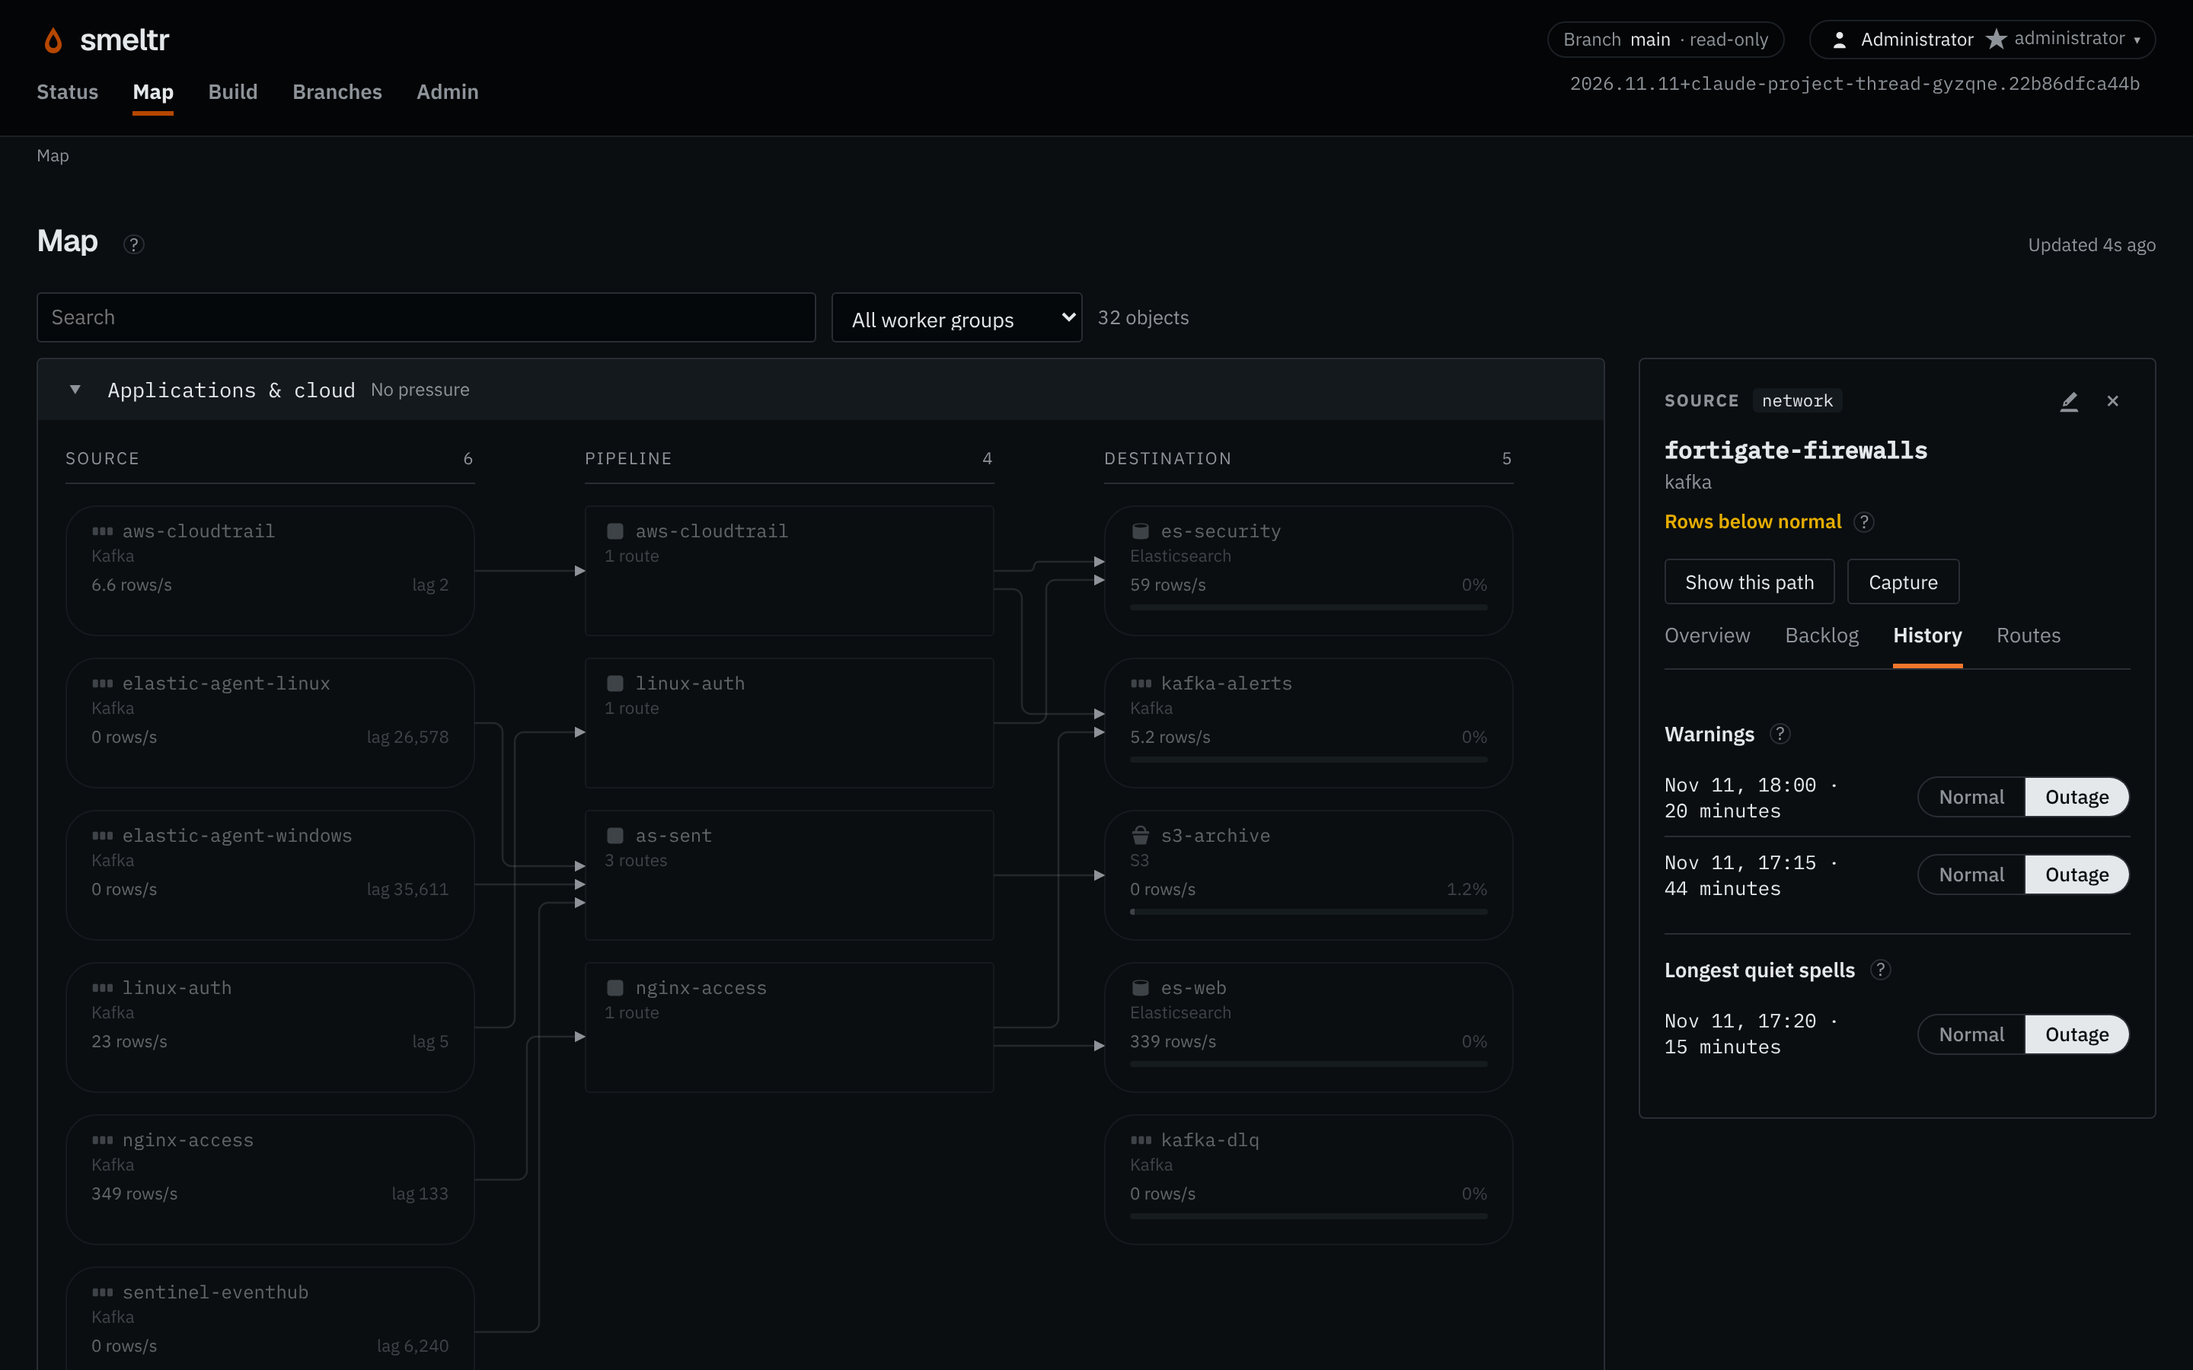
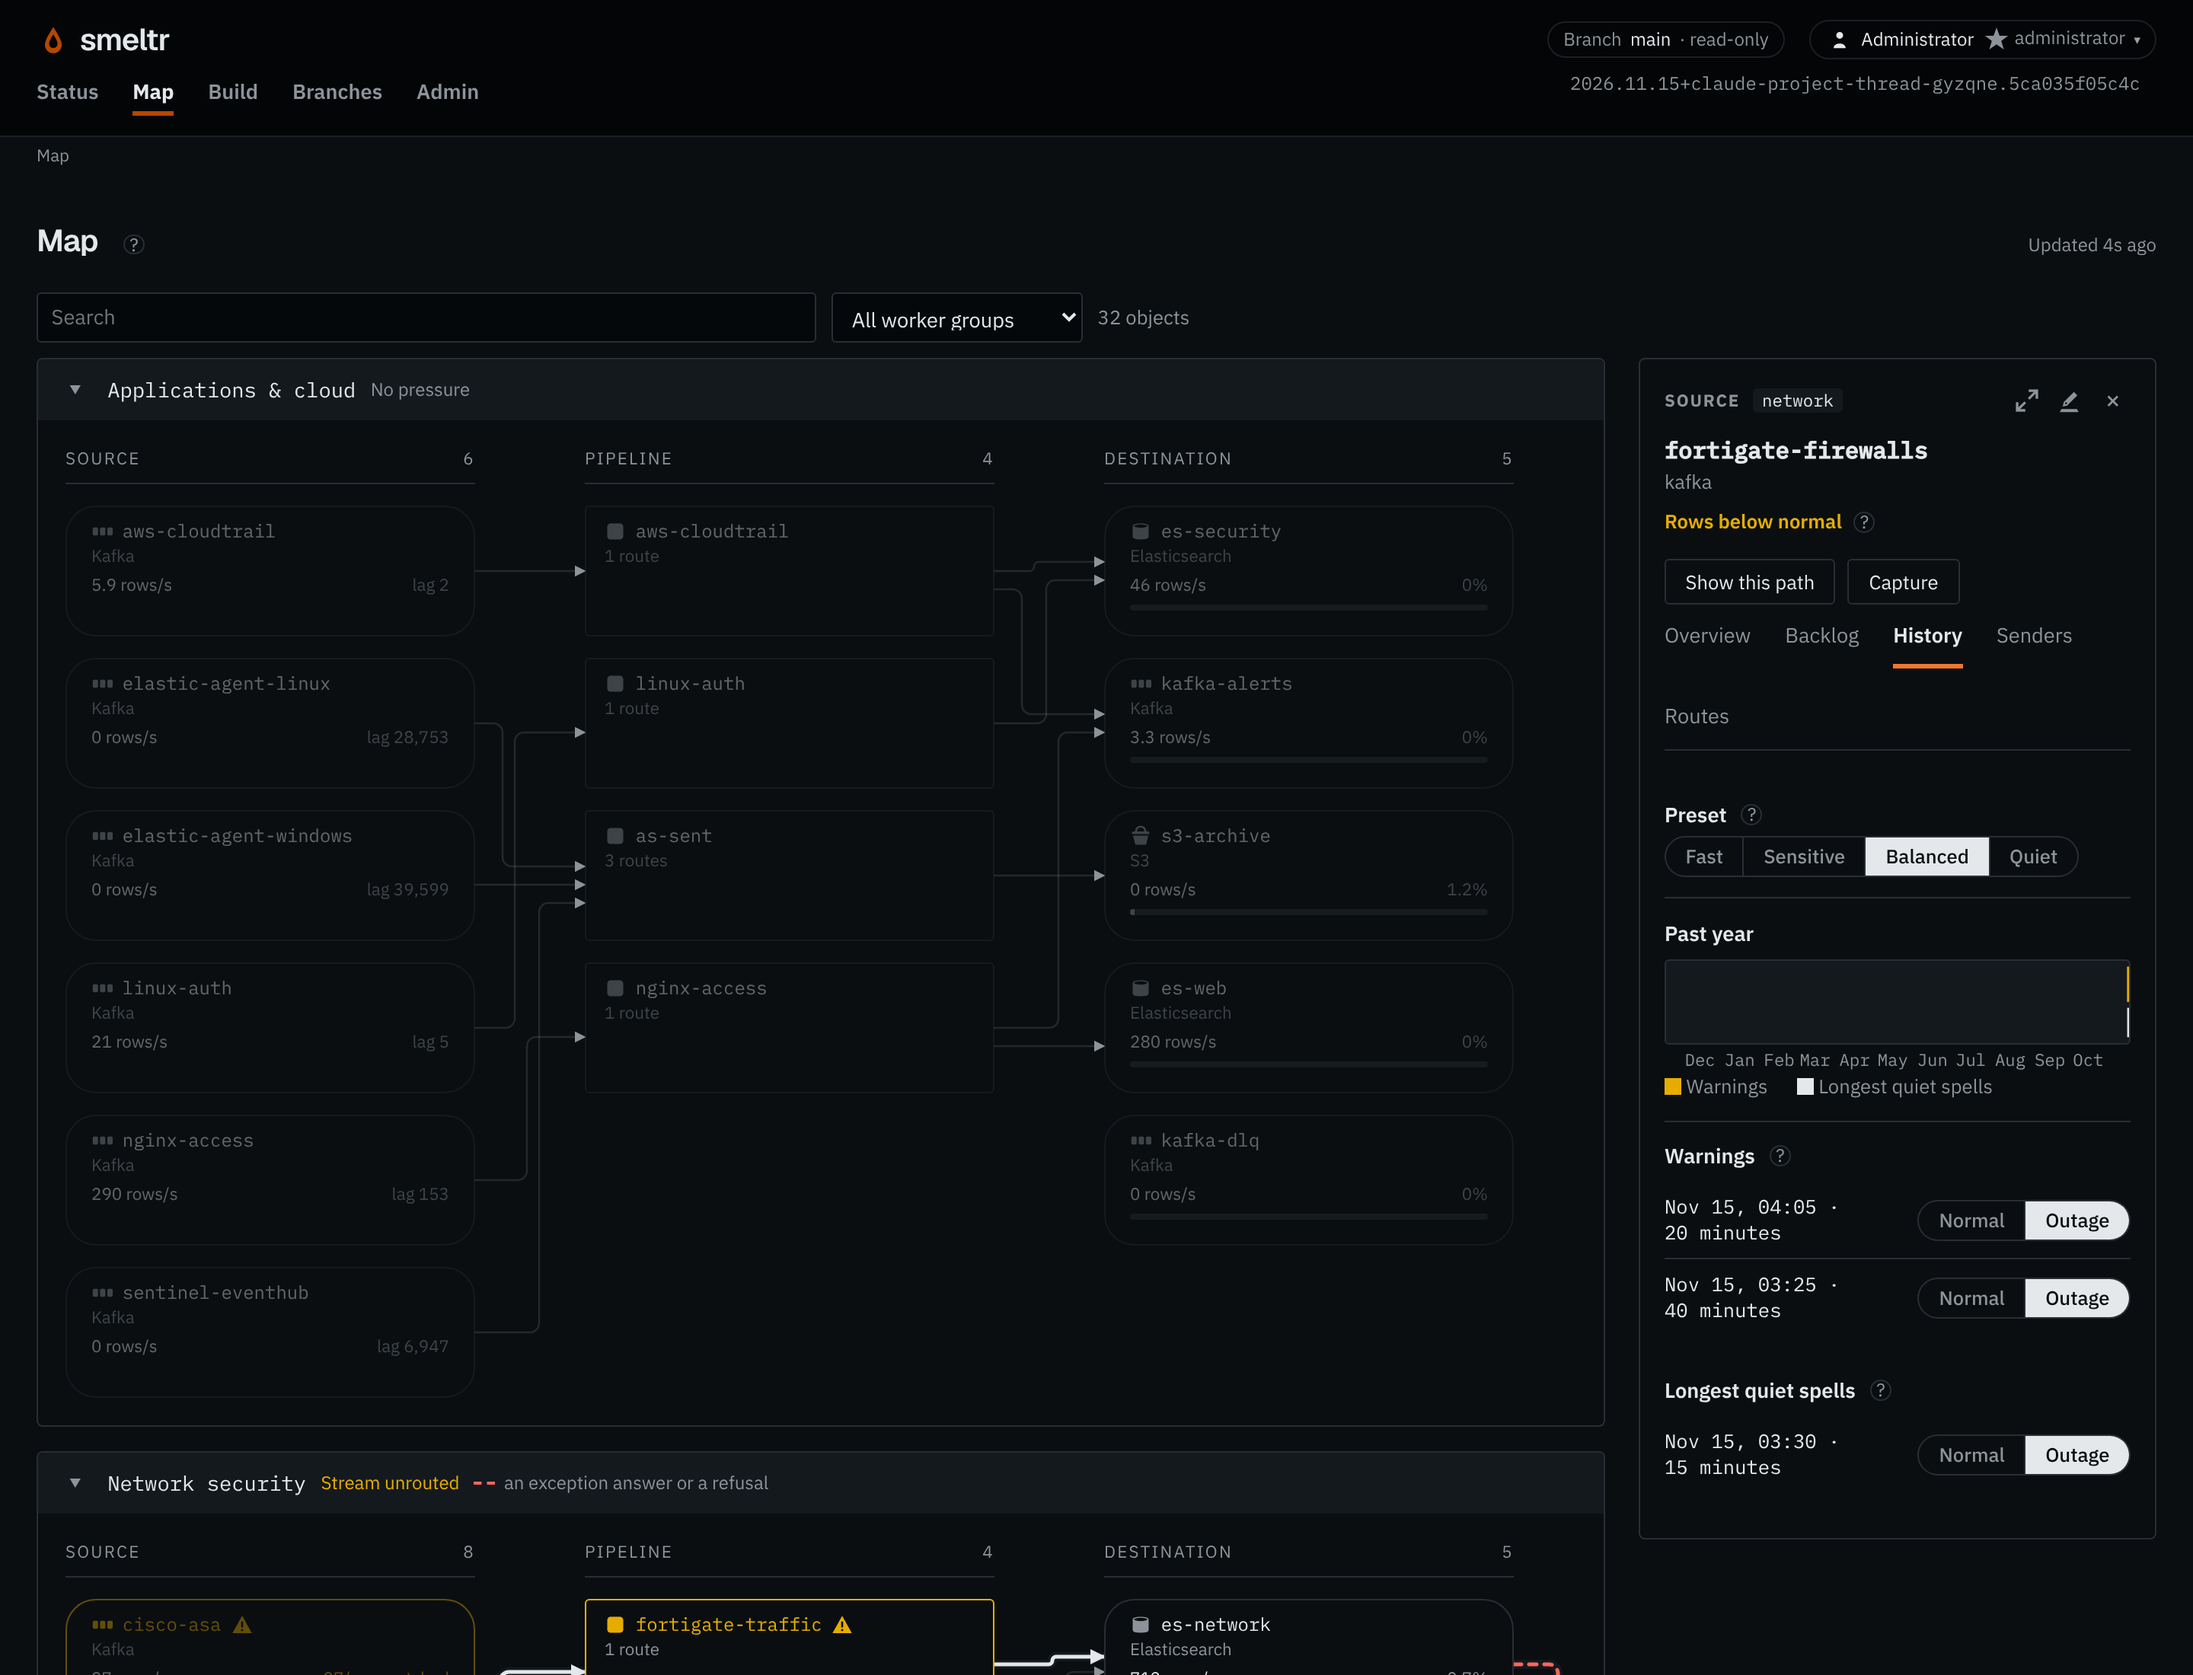
Retake the Feed health page's outage shots since presets
The source panel grew with presets (the History tab's preset picker, the
Overview tiles), so the Map shots of the outage are taken 1100 px tall and
the page's crops follow the panel. The alt text names the new values.

Claude-Session: https://claude.ai/code/session_016X7h2TF6fY2yjAYkvbcw2P

diff --git a/website/src/routes/feed-health/+page.svelte b/website/src/routes/feed-health/+page.svelte
@@ -31,9 +31,9 @@
     </p>
     <ProductScreenshot
       source="feed-health-volume"
-      height={1800}
-      crop={{ x: 2150, y: 470, width: 690, height: 950 }}
-      alt="The Map's panel for the fortigate-firewalls source: Rows below normal, input 0 rows a second, expected 228 to 746. Its 24-hour chart runs inside the expected band through the day, then twice drops to nothing."
+      height={2200}
+      crop={{ x: 2150, y: 470, width: 690, height: 1410 }}
+      alt="The Map's panel for the fortigate-firewalls source: Rows below normal, input 0 rows a second, expected 227 to 756. Its 24-hour chart runs inside the expected band through the day, then drops to nothing twice."
       caption="Over the last 24 hours the source reads within its band, until the relay stops, twice."
     />
     <p>
@@ -48,9 +48,9 @@
         source: 'feed-health-issues-phone',
         height: 2200,
         width: 1440,
-        crop: { x: 472, y: 916, width: 920, height: 382 },
+        crop: { x: 472, y: 956, width: 920, height: 388 },
       }}
-      alt="The Issues page: Rows below normal, for the fortigate-firewalls source, which read 0 rows in 5 minutes where 71,695 to 226,858 is normal at this time of day."
+      alt="The Issues page: Rows below normal, for the fortigate-firewalls source, which read 0 rows in 5 minutes where 68,071 to 226,804 is normal at this time of day."
       caption="The Issues page names the source, what it read and what is normal."
     />
     <p>
@@ -72,9 +72,9 @@
     </p>
     <ProductScreenshot
       source="feed-health-history"
-      height={1800}
-      crop={{ x: 2150, y: 470, width: 690, height: 1000 }}
-      alt="The Map's panel for the fortigate-firewalls source, History tab. Warnings: Nov 11, 18:00, for 20 minutes, and Nov 11, 17:15, for 44 minutes. Longest quiet spells: Nov 11, 17:20, for 15 minutes, inside the older warning. Each row has a Normal and Outage switch, set to Outage."
+      height={2200}
+      crop={{ x: 2150, y: 470, width: 690, height: 1560 }}
+      alt="The Map's panel for the fortigate-firewalls source, History tab, at the Balanced preset. Warnings: Nov 15, 04:05, for 20 minutes, and Nov 15, 03:25, for 40 minutes. Longest quiet spells: Nov 15, 03:30, for 15 minutes, inside the older warning. Each row has a Normal and Outage switch, set to Outage."
       caption="A warning lasts until no width reads the source below normal, so it outlasts the quiet spell inside it. None of the three is learned."
     />
   </section>
@@ -110,7 +110,7 @@
         source: 'feed-health-issues-phone',
         height: 2200,
         width: 1440,
-        crop: { x: 472, y: 464, width: 920, height: 336 },
+        crop: { x: 472, y: 503, width: 920, height: 344 },
       }}
       alt="The Issues page: Field not its declared type, for the fortigate-traffic pipeline, whose field proto has failed to read as its declared type in the last hour."
       caption="The Issues page names the pipeline, the field and the step."
